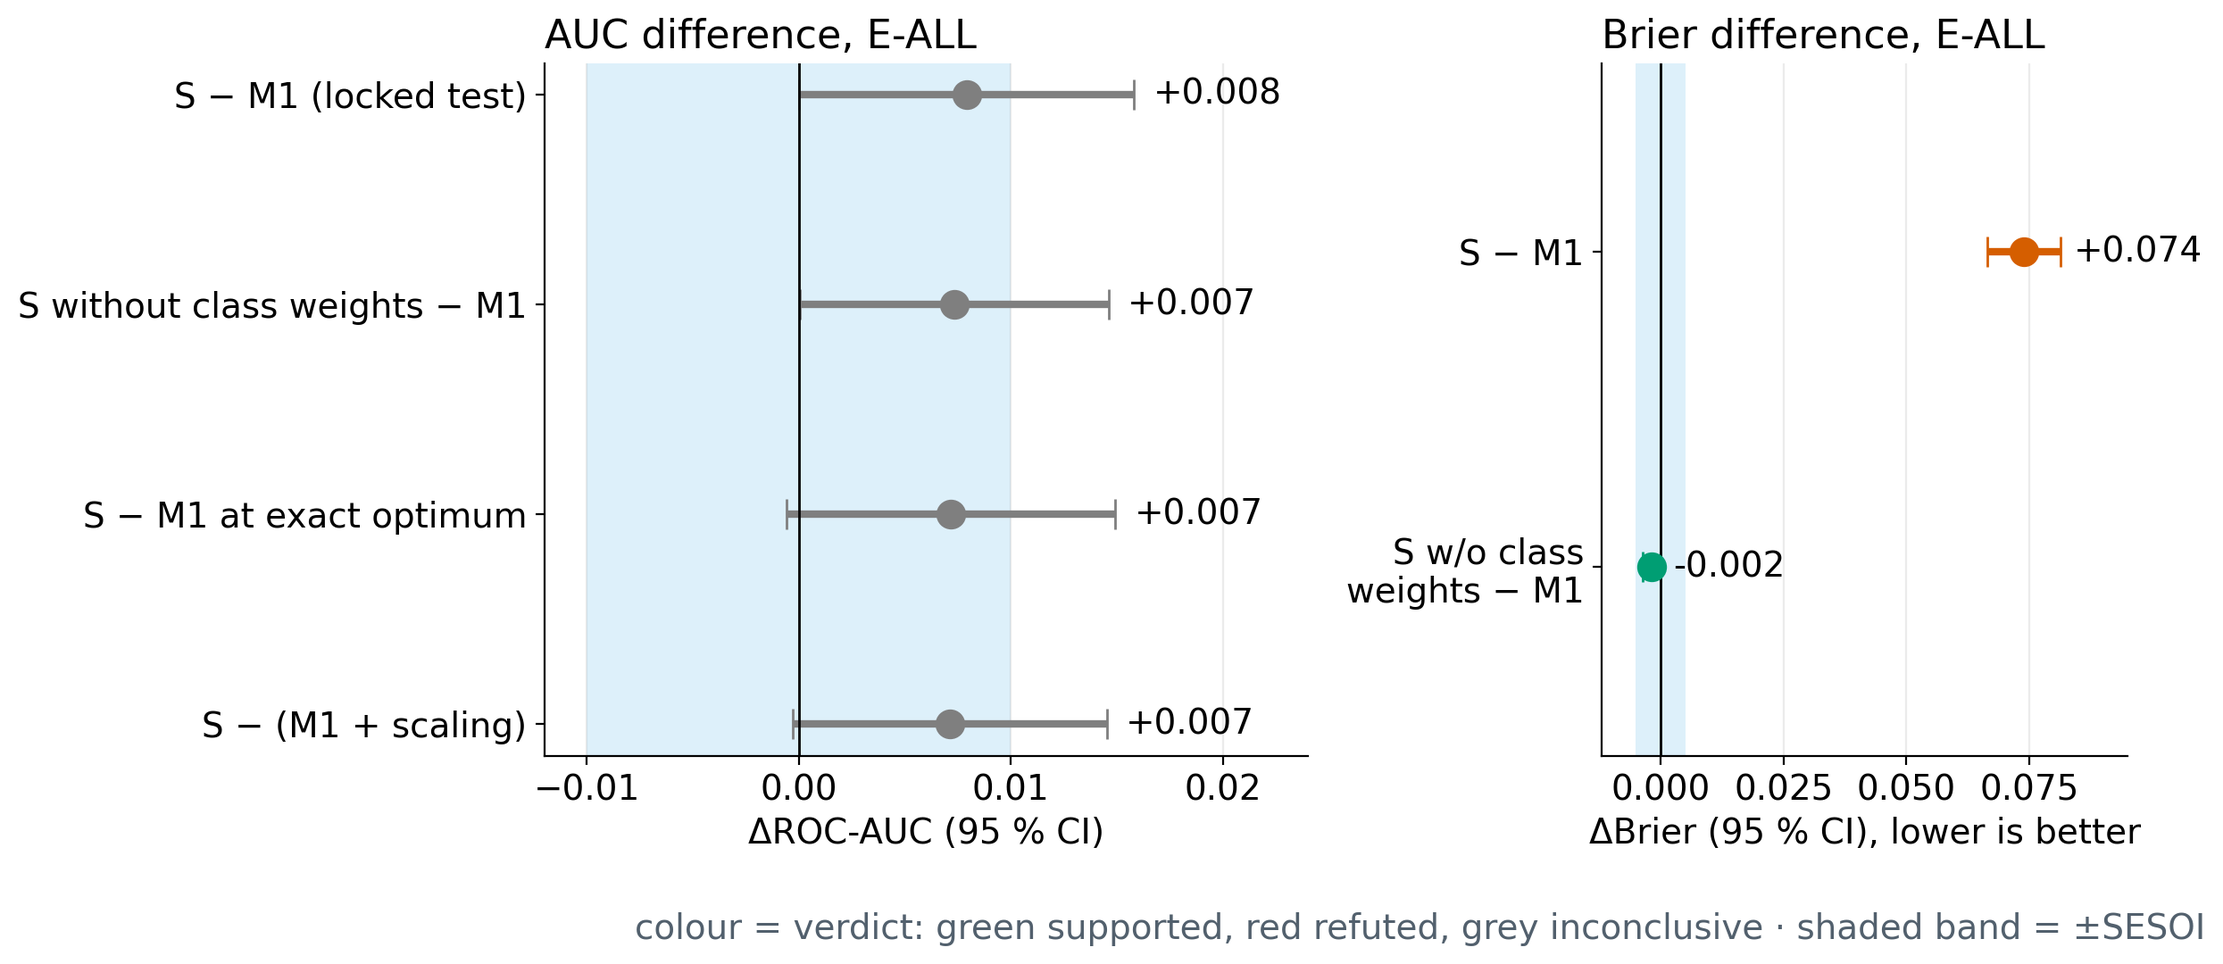
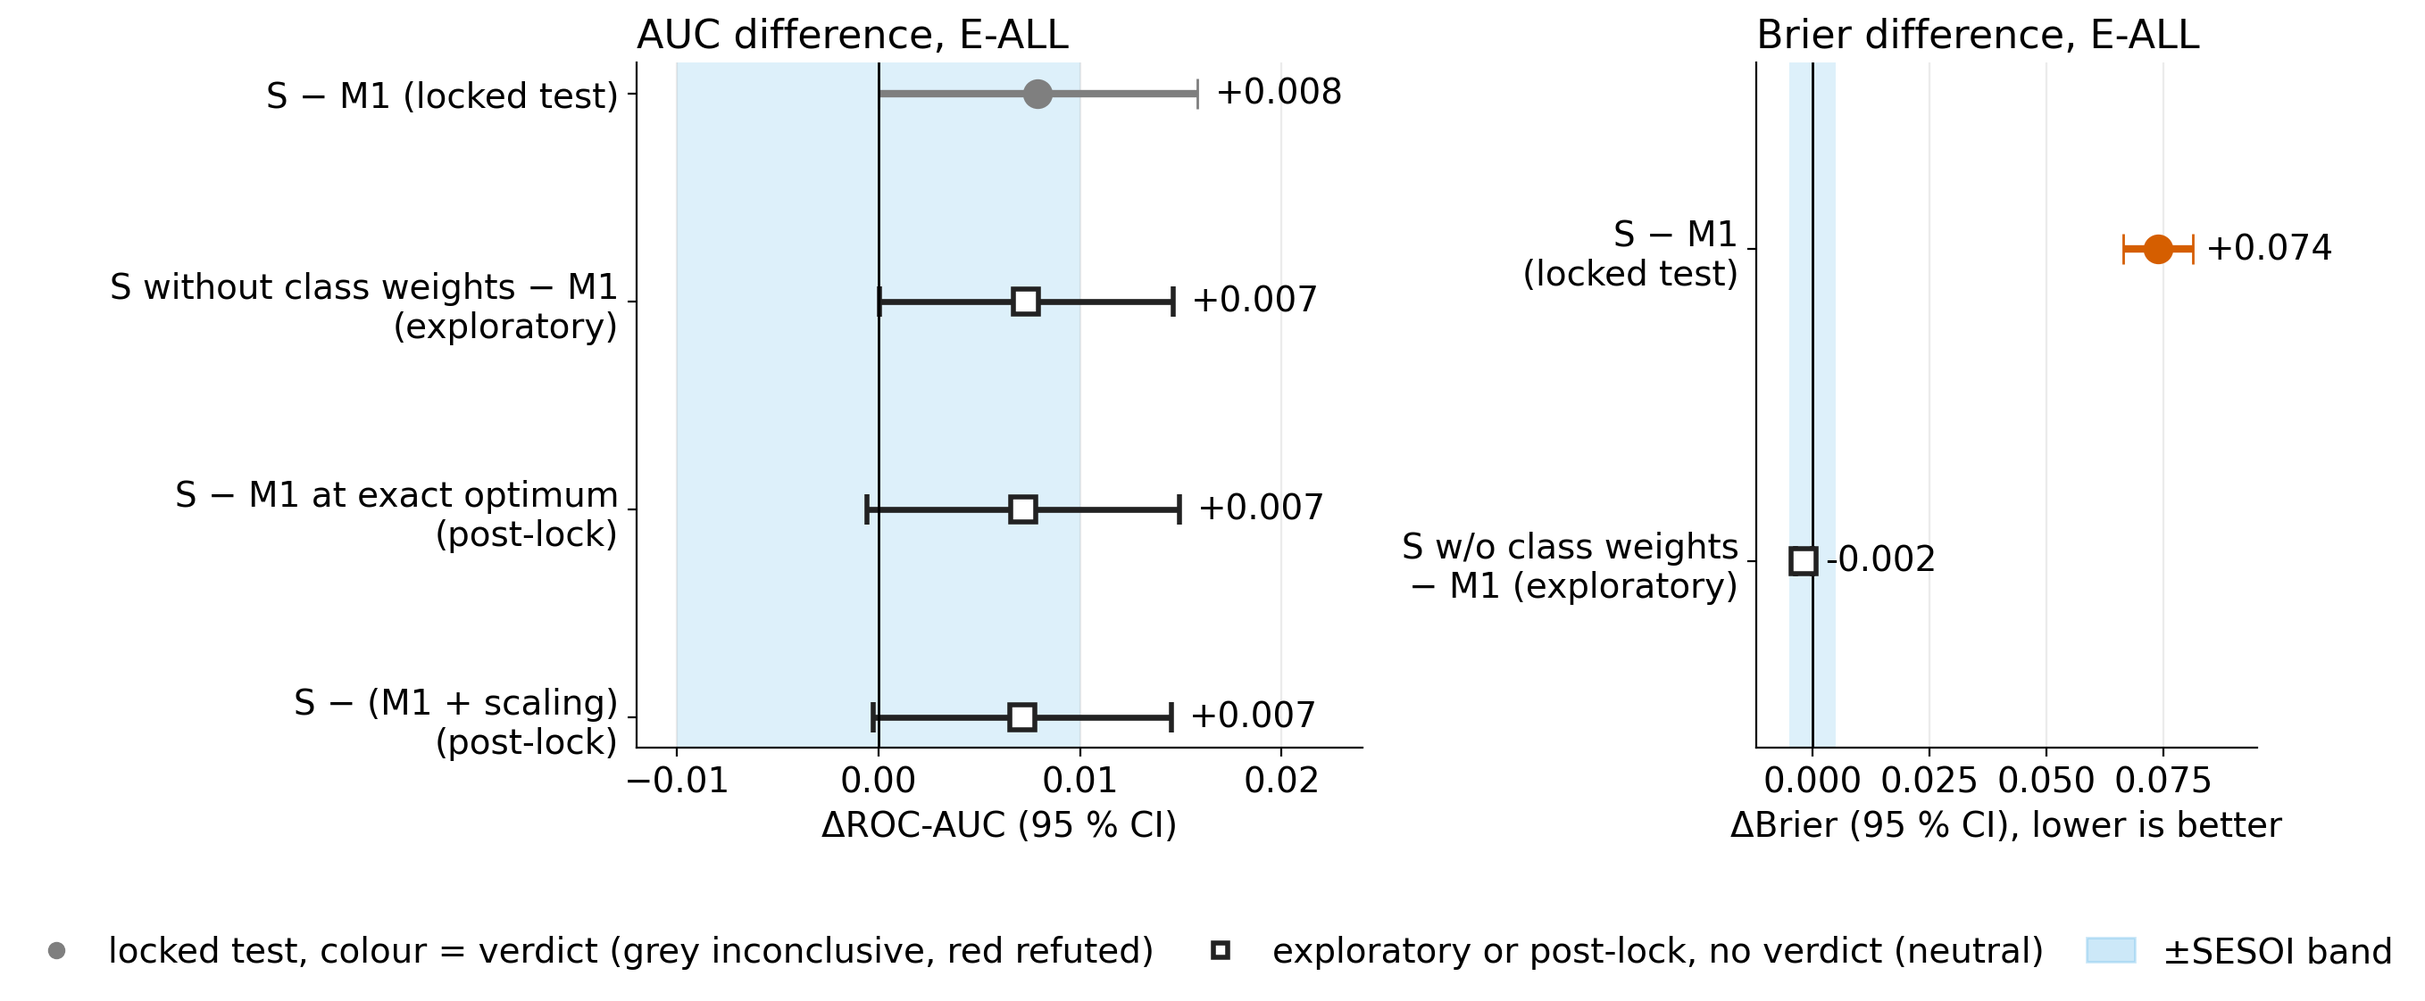
fix(S11b): neutral exploratory rows in the scoreboard figure, V3.1 inadmissible items, TEAM TO FILL placeholders, merge V7.4 and V7.5
V7.2 gets 40 s (V7.3 35 s, merged hold-out and robustness slide 20 s); total
stays 11:20. V8.3 footer now names the front-matter contribution table.

Changed region(s): [[0.0, 0.0, 0.9586, 0.8861], [0.0309, 0.9167, 1.0, 0.9778], [0.8659, 0.2139, 0.9896, 0.275]]

diff --git a/slides/make_slide_figures.py b/slides/make_slide_figures.py
@@ -39,6 +39,7 @@ sys.path.insert(0, str(ROOT))
 from src import config as C  # noqa: E402  (palette and SESOI only)
 
 OI = C.OKABE_ITO
+NEUTRAL = "#222222"
 RES = ROOT / "results"
 OUT = ROOT / "slides" / "figures"
 OUT.mkdir(parents=True, exist_ok=True)
@@ -292,25 +293,33 @@ def fig_scoreboard() -> None:
         r = pl[(pl["variant"] == variant) & (pl["a"] == a) & (pl["pop"] == "E-ALL") & (pl["metric"] == metric)].iloc[0]
         return r["est"], r["lo"], r["hi"], r["verdict_equivalence"]
     vcol = {"supported": OI["green"], "refuted": OI["vermillion"], "inconclusive": OI["grey"], "equivalent": OI["blue"]}
-    auc_rows = [("S − M1 (locked test)", row(stored, "S", "roc_auc")), ("S without class weights − M1", row(stored, "S-B6a", "roc_auc")),
-                ("S − M1 at exact optimum", row(exact, "S", "roc_auc")), ("S − (M1 + scaling)", row(scaled, "S", "roc_auc"))]
-    br_rows = [("S − M1", row(stored, "S", "brier")), ("S w/o class\nweights − M1", row(stored, "S-B6a", "brier"))]
-    fig, (ax, ax2) = plt.subplots(1, 2, figsize=(12.6, 5.4), gridspec_kw={"width_ratios": [1.45, 1]})
+    # locked rows carry the equivalence-rule verdict colour; exploratory and post-lock rows are neutral (no verdict)
+    auc_rows = [("S − M1 (locked test)", row(stored, "S", "roc_auc"), True), ("S without class weights − M1\n(exploratory)", row(stored, "S-B6a", "roc_auc"), False),
+                ("S − M1 at exact optimum\n(post-lock)", row(exact, "S", "roc_auc"), False), ("S − (M1 + scaling)\n(post-lock)", row(scaled, "S", "roc_auc"), False)]
+    br_rows = [("S − M1\n(locked test)", row(stored, "S", "brier"), True), ("S w/o class weights\n− M1 (exploratory)", row(stored, "S-B6a", "brier"), False)]
+    fig, (ax, ax2) = plt.subplots(1, 2, figsize=(12.8, 5.6), gridspec_kw={"width_ratios": [1.45, 1]})
     for ax_, rows_, band, lim in ((ax, auc_rows, C.SESOI["roc_auc"], (-0.012, 0.024)), (ax2, br_rows, C.SESOI["brier"], (-0.012, 0.095))):
-        for i, (lab, (est, lo, hi, v)) in enumerate(rows_):
-            ax_.errorbar(est, i, xerr=[[est - lo], [hi - est]], fmt="o", color=vcol[v], capsize=6, ms=11, lw=3)
+        for i, (lab, (est, lo, hi, v), locked) in enumerate(rows_):
+            if locked:
+                ax_.errorbar(est, i, xerr=[[est - lo], [hi - est]], fmt="o", color=vcol[v], capsize=6, ms=11, lw=3)
+            else:
+                ax_.errorbar(est, i, xerr=[[est - lo], [hi - est]], fmt="s", color=NEUTRAL, mfc="white", mew=2, capsize=6, ms=10, lw=2.4)
             ax_.text(hi + (lim[1] - lim[0]) * 0.025, i, f"{est:+.3f}", va="center", fontsize=14, color="black")
         ax_.axvspan(-band, band, color=OI["sky"], alpha=0.2, lw=0); ax_.axvline(0, color="black", lw=1)
         ax_.set_xlim(lim); ax_.invert_yaxis(); ax_.set_yticks(range(len(rows_)), [r[0] for r in rows_]); ax_.grid(axis="y", visible=False)
     ax.set_xticks([-0.01, 0, 0.01, 0.02]); ax2.set_xticks([0, 0.025, 0.05, 0.075]); ax2.set_ylim(1.6, -0.6)
     ax.set_title("AUC difference, E-ALL", loc="left"); ax.set_xlabel("ΔROC-AUC (95 % CI)")
     ax2.set_title("Brier difference, E-ALL", loc="left"); ax2.set_xlabel("ΔBrier (95 % CI), lower is better")
-    fig.text(0.99, 0.0, "colour = verdict: green supported, red refuted, grey inconclusive · shaded band = ±SESOI", ha="right", va="bottom", fontsize=14, color="#52606d")
-    fig.tight_layout(rect=[0, 0.06, 1, 1])
+    from matplotlib.lines import Line2D
+    hand = [Line2D([], [], marker="o", ls="", color=OI["grey"], label="locked test, colour = verdict (grey inconclusive, red refuted)"),
+            Line2D([], [], marker="s", ls="", color=NEUTRAL, mfc="white", mew=2, label="exploratory or post-lock, no verdict (neutral)"),
+            plt.Rectangle((0, 0), 1, 1, color=OI["sky"], alpha=0.3, label="±SESOI band")]
+    fig.legend(handles=hand, loc="lower center", ncol=3, fontsize=14, bbox_to_anchor=(0.5, -0.02), handlelength=1.4, columnspacing=1.2)
+    fig.tight_layout(rect=[0, 0.1, 1, 1])
     save(fig, "S10_scoreboard_forest",
          "Paired cross-validated difference of arm S against M1 on E-ALL (training part, 5x5 CV; shaded band = smallest effect of interest). Left: AUC for the locked "
          "comparison, S without class weights, and two post-lock variants of M1 (exact optimum; scaling only). Right: Brier score, where the deterioration comes from class weights. "
-         "Colours are the equivalence-rule verdicts. Source: results/S7/postlock_m1_sensitivity.csv.")
+         "Filled circles are locked tests coloured by their equivalence-rule verdict; hollow neutral squares are exploratory or post-lock rows and carry no verdict. Source: results/S7/postlock_m1_sensitivity.csv.")
 
 
 # --------------------------------------------------------------------------------------------- V1.4

diff --git a/slides/check_numbers.py b/slides/check_numbers.py
@@ -386,7 +386,7 @@ def main() -> int:
         n_checked += check_slide_numbers(where, {"title": s["title"], "takeaway": f["takeaway"],
                                                   "notes": f["notes"], "footer": f["footer"]},
                                          declared, rows, definitional)
-        if re.search(r"\[(N|TODO[^\]]*)\]", f["footer"] + f["takeaway"]):
+        if re.search(r"\[TEAM TO FILL[^\]]*\]", f["footer"] + f["takeaway"]):
             warn(where, "placeholder to be filled by the team")
 
     total = clock

diff --git a/slides/storyboard.md b/slides/storyboard.md
@@ -24,9 +24,9 @@ Models are used as measuring instruments. Each finding is something the instrume
 | V4 Redundancy and skewness | 3:30–4:30 | 60 | 3 | RB3 |
 | V5 Fallacies | 4:30–6:00 | 90 | 2 | RB3 |
 | V6 Label and measurement bias | 6:00–8:30 | 150 | 5 | RB4 |
-| V7 Experiments synthesis | 8:30–10:15 | 105 | 5 | RB4, HR1, HR2, HR3, HR4 |
+| V7 Experiments synthesis | 8:30–10:15 | 105 | 4 | RB4, HR1, HR2, HR3, HR4 |
 | V8 Conclusions, limitations, ethics, GenAI | 10:15–11:20 | 65 | 3 | RB2, HR5 |
-| Total | 0:00–11:20 | 680 | 27 | cap 11:40 leaves a 20 s reserve |
+| Total | 0:00–11:20 | 680 | 26 | cap 11:40 leaves a 20 s reserve |
 
 Speaker notes are sized at about 2.2 words per second, so a slide's notes fit its budget.
 
@@ -41,7 +41,7 @@ Field legend. `type` is figure, text, template or title. `takeaway` is the one-l
 - **takeaway**: Basic machine-learning models as measuring instruments on NHANES 2021–23 adult diabetes data.
 - **notes**: We treat basic machine-learning models as measuring instruments. The question is what they reveal about the data, not how well they score.
 - **numbers used**: none
-- **footer**: CA6003 Data Governance · Group [N] · NHANES 2021–23
+- **footer**: CA6003 Data Governance · [TEAM TO FILL: group no.] · NHANES 2021–23
 - **claims**: none
 
 ### V1.1 · Cohort Funnel
@@ -109,7 +109,7 @@ Field legend. `type` is figure, text, template or title. `takeaway` is the one-l
 - **time**: 45 s (2:15–3:00)
 - **figure**: `figures/S7_leak_gate.png`
 - **takeaway**: Removing leakage drops E-ALL AUC from 0.961 to 0.828.
-- **notes**: The naive model M0 reaches AUC 0.961 on all adults. Remove treatment and skip-logic items and M1 falls to 0.828, a drop of 0.131, interval minus 0.148 to minus 0.114. That excess was leakage, not insight. Among the undiagnosed the drop is smaller, minus 0.072.
+- **notes**: The naive model M0 reaches AUC 0.961 on all adults. Remove inadmissible items (treatment, diagnosis history, glucose testing) and M1 falls to 0.828, a drop of 0.131, interval minus 0.148 to minus 0.114. That excess was leakage, not insight. Among the undiagnosed the drop is smaller, minus 0.072.
 - **numbers used**: V3 · AUC M0 E-ALL = 0.961 | V3 · AUC M1 E-ALL = 0.828 | V3 · leak gate dAUC = -0.131 | V3 · leak gate CI low = -0.148 | V3 · leak gate CI high = -0.114 | V3 · leak gate dAUC E-SCREEN = -0.072 | V7 · training part adults = 4,584 | V7 · training part E-SCREEN positives = 127
 - **footer**: n = 4,584 (E-ALL), 127 positives (E-SCREEN) · paired CV, unweighted · §7.5
 - **claims**: C01
@@ -236,7 +236,7 @@ Field legend. `type` is figure, text, template or title. `takeaway` is the one-l
 
 ### V7.2 · Minimal versus Systematic Preparation
 - **type**: figure
-- **time**: 35 s (8:40–9:15)
+- **time**: 40 s (8:40–9:20)
 - **figure**: `slides/figures/S10_scoreboard_forest.png`
 - **takeaway**: S minus M1 ΔAUC +0.008 [+0.000, +0.016]; without class weights +0.007, Brier -0.002; inconclusive.
 - **notes**: Minimal M1 against systematic S, same model. The AUC gain is plus 0.008, interval 0.000 to 0.016, minimum detectable difference 0.011, so inconclusive. Class weights alone worsen Brier by 0.076. Without them S gains 0.007 AUC and improves Brier by 0.002. M1 hit its iteration limit in 25 folds, but converged or scaled variants keep the verdict.
@@ -246,7 +246,7 @@ Field legend. `type` is figure, text, template or title. `takeaway` is the one-l
 
 ### V7.3 · Recognition versus Screening
 - **type**: figure
-- **time**: 40 s (9:15–9:55)
+- **time**: 35 s (9:20–9:55)
 - **figure**: `slides/figures/S10_recognition_vs_screening.png`
 - **takeaway**: Whole-sample AUC overstates screening, 0.836 on E-ALL against 0.781 on E-SCREEN (gap +0.055).
 - **notes**: Same predictions, two populations. Arm S scores 0.836 on all adults but 0.781 on the undiagnosed, a gap of 0.055. Whole-sample AUC measures recognition. Removing care-trace items lowers E-ALL by 0.016 yet raises E-SCREEN by 0.019. Against ADA-lite, S leads by 0.055 in cross-validation but only 0.029 on the hold-out, interval minus 0.037 to 0.098, inconclusive.
@@ -254,25 +254,15 @@ Field legend. `type` is figure, text, template or title. `takeaway` is the one-l
 - **footer**: n = 4,584 / 127 positives · paired CV, unweighted · §7.9, §9.11, §10.6
 - **claims**: C07, C08, C09
 
-### V7.4 · Hold-Out Confirmation
+### V7.4 · Hold-Out and Robustness
 - **type**: figure
-- **time**: 10 s (9:55–10:05)
+- **time**: 20 s (9:55–10:15)
 - **figure**: `figures/S9_holdout_vs_cv.png`
-- **takeaway**: Hold-out shows cross-validated AUCs carry over, arm S 0.851 E-ALL, 0.791 E-SCREEN.
-- **notes**: One shot, evaluated once. Arm S scores 0.851 and 0.791, matching cross-validation. The leak gate holds, M0 0.964 against M1 0.848.
-- **numbers used**: V7 · hold-out AUC S E-ALL = 0.851 | V7 · hold-out AUC S E-SCREEN = 0.791 | V7 · hold-out AUC M0 E-ALL = 0.964 | V7 · hold-out AUC M1 E-ALL = 0.848 | V7 · hold-out n = 1,146
-- **footer**: one-shot hold-out n = 1,146 · unweighted · §9.11
-- **claims**: C25
-
-### V7.5 · Robustness Checks
-- **type**: figure
-- **time**: 10 s (10:05–10:15)
-- **figure**: `figures/S9_robustness_summary.png`
-- **takeaway**: The S minus M1 verdict is unchanged across all robustness analyses.
-- **notes**: Seeds, specifications, grouped cross-validation, weights and missing-data scenarios leave S minus M1 small and inconclusive. Permuted labels give AUC 0.501.
-- **numbers used**: V7 · permutation null mean (S) = 0.501 | V7 · training part adults = 4,584
-- **footer**: n = 4,584 (training part) · unweighted · §9.10
-- **claims**: C22
+- **takeaway**: Hold-out matches cross-validation, arm S 0.851 and 0.791; robustness checks leave S minus M1 unchanged.
+- **notes**: One shot, evaluated once. Arm S scores 0.851 and 0.791, close to cross-validation, but the screening hold-out has few positives. Seeds, specifications, grouped cross-validation and weights leave S minus M1 small and inconclusive. Permuted labels give AUC 0.501.
+- **numbers used**: V7 · hold-out AUC S E-ALL = 0.851 | V7 · hold-out AUC S E-SCREEN = 0.791 | V7 · permutation null mean (S) = 0.501 | V7 · hold-out n = 1,146 | V7 · training part adults = 4,584
+- **footer**: hold-out n = 1,146 · robustness on training part, n = 4,584 · unweighted · §9.10, §9.11
+- **claims**: C22, C25
 
 ### V8.1 · Conclusions
 - **type**: text
@@ -301,7 +291,7 @@ Field legend. `type` is figure, text, template or title. `takeaway` is the one-l
 - **takeaway**: Contribution table and GenAI statement (template, team fills in).
 - **notes**: Each member names their role and notebook sections on screen. For GenAI, Claude assisted planning, code drafting and audits under our direction. No LLM sits in the pipeline, and every number was recomputed and checked by us.
 - **numbers used**: none
-- **footer**: §0 contribution table · GenAI log in governance/genai_log.csv
+- **footer**: front-matter contribution table · GenAI log in governance/genai_log.csv
 - **claims**: none
 
 ## Cut priority (rehearsal loop L6)
@@ -327,7 +317,7 @@ Never cut: leakage gate (V3.1, V3.2), redundancy and skewness (V4.1 to V4.3), mi
 - V2.1 (governance and data quality) is new and takes 20 s of the V2 segment; the former V2.1 (cost of naive cleaning) is now V2.2 with 25 s.
 - The insurance and Asian fallacies share one figure (`S4_crude_vs_std`, which shows both); the mediator DAG has its own slide.
 - The skewness slide uses `S4_triglyceride_skew` (raw against log scale); the HbA1c outlier-fence figure `S3_iqr_fence_harm` is the optional backup visual.
-- V7 adds the hold-out confirmation (V7.4) and a robustness slide (V7.5) from S10; the ADA-lite sentence sits in V7.3 together with the hold-out contrast (+0.029, inconclusive).
+- V7.4 combines the one-shot hold-out and the robustness checks in one slide (the robustness summary figure `S9_robustness_summary` is the optional backup visual); the ADA-lite sentence sits in V7.3 together with the hold-out contrast (+0.029, inconclusive). The freed seconds went to V7.2 (40 s).
 - Slides V1.4, V2.1, V4.1, V4.2, V5.2, V6.5, V7.1, V7.2 and V7.3 use simplified slide versions of the notebook figures (`slides/figures/`); the V4.1 slide shows variance inflation factors and correlation clusters instead of the full clustered heatmap, and the V4.2 slide shows only the left panel of the coefficient figure (the 22-coefficient panel is not stored in `results/`).
 - Text slides (V0, V8.1, V8.2, V8.3) carry no figure.
 

diff --git a/slides/deck.md b/slides/deck.md
@@ -22,7 +22,7 @@ style: |
 ---
 
 <!-- _class: V0 title -->
-<!-- _footer: "CA6003 Data Governance · Group [N] · NHANES 2021–23" -->
+<!-- _footer: "CA6003 Data Governance · [TEAM TO FILL: group no.] · NHANES 2021–23" -->
 
 # Who Gets Labelled Diabetic? Basic Models as Instruments on NHANES 2021–2023
 
@@ -134,7 +134,7 @@ Recoding questionnaire sentinel codes to missing looks like routine cleaning. It
 Removing leakage drops E-ALL AUC from 0.961 to 0.828.
 
 <!--
-The naive model M0 reaches AUC 0.961 on all adults. Remove treatment and skip-logic items and M1 falls to 0.828, a drop of 0.131, interval minus 0.148 to minus 0.114. That excess was leakage, not insight. Among the undiagnosed the drop is smaller, minus 0.072.
+The naive model M0 reaches AUC 0.961 on all adults. Remove inadmissible items (treatment, diagnosis history, glucose testing) and M1 falls to 0.828, a drop of 0.131, interval minus 0.148 to minus 0.114. That excess was leakage, not insight. Among the undiagnosed the drop is smaller, minus 0.072.
 -->
 
 ---
@@ -350,31 +350,16 @@ Same predictions, two populations. Arm S scores 0.836 on all adults but 0.781 on
 ---
 
 <!-- _class: V7_4 -->
-<!-- _footer: "one-shot hold-out n = 1,146 · unweighted · §9.11" -->
+<!-- _footer: "hold-out n = 1,146 · robustness on training part, n = 4,584 · unweighted · §9.10, §9.11" -->
 
-# Hold-Out Confirmation
+# Hold-Out and Robustness
 
 ![fig h:455](../figures/S9_holdout_vs_cv.png)
 
-Hold-out shows cross-validated AUCs carry over, arm S 0.851 E-ALL, 0.791 E-SCREEN.
+Hold-out matches cross-validation, arm S 0.851 and 0.791; robustness checks leave S minus M1 unchanged.
 
 <!--
-One shot, evaluated once. Arm S scores 0.851 and 0.791, matching cross-validation. The leak gate holds, M0 0.964 against M1 0.848.
--->
-
----
-
-<!-- _class: V7_5 -->
-<!-- _footer: "n = 4,584 (training part) · unweighted · §9.10" -->
-
-# Robustness Checks
-
-![fig h:455](../figures/S9_robustness_summary.png)
-
-The S minus M1 verdict is unchanged across all robustness analyses.
-
-<!--
-Seeds, specifications, grouped cross-validation, weights and missing-data scenarios leave S minus M1 small and inconclusive. Permuted labels give AUC 0.501.
+One shot, evaluated once. Arm S scores 0.851 and 0.791, close to cross-validation, but the screening hold-out has few positives. Seeds, specifications, grouped cross-validation and weights leave S minus M1 small and inconclusive. Permuted labels give AUC 0.501.
 -->
 
 ---
@@ -412,18 +397,18 @@ Limits are observational US data, not Singapore, and only 152 screening positive
 ---
 
 <!-- _class: V8_3 template -->
-<!-- _footer: "§0 contribution table · GenAI log in governance/genai_log.csv" -->
+<!-- _footer: "front-matter contribution table · GenAI log in governance/genai_log.csv" -->
 
 # Contributions and GenAI
 
 | Member | Role | Notebook sections | Video segment |
 |---|---|---|---|
-| [Name] | [Role] | [§ list] | [segment] |
-| [Name] | [Role] | [§ list] | [segment] |
-| [Name] | [Role] | [§ list] | [segment] |
-| [Name] | [Role] | [§ list] | [segment] |
+| [TEAM TO FILL: name] | [TEAM TO FILL: role] | [TEAM TO FILL: § list] | [TEAM TO FILL: mm:ss–mm:ss] |
+| [TEAM TO FILL: name] | [TEAM TO FILL: role] | [TEAM TO FILL: § list] | [TEAM TO FILL: mm:ss–mm:ss] |
+| [TEAM TO FILL: name] | [TEAM TO FILL: role] | [TEAM TO FILL: § list] | [TEAM TO FILL: mm:ss–mm:ss] |
+| [TEAM TO FILL: name] | [TEAM TO FILL: role] | [TEAM TO FILL: § list] | [TEAM TO FILL: mm:ss–mm:ss] |
 
-GenAI. Claude (Anthropic) supported planning, code drafting and audits; no LLM in the pipeline. [TODO team confirms wording]
+GenAI. Claude (Anthropic) supported planning, code drafting and audits; no LLM in the pipeline. [TEAM TO FILL: confirm wording against the declaration in the front matter]
 
 <!--
 Each member names their role and notebook sections on screen. For GenAI, Claude assisted planning, code drafting and audits under our direction. No LLM sits in the pipeline, and every number was recomputed and checked by us.

diff --git a/slides/README.md b/slides/README.md
@@ -25,7 +25,7 @@ npx @marp-team/marp-cli slides/deck.md --pptx --allow-local-files -o slides/deck
 npx @marp-team/marp-cli slides/deck.md --images png --allow-local-files -o slides/png/s.png
 ```
 
-`--allow-local-files` is required for the figures. Do not commit rendered files. The deck was rendered with Marp CLI to PNG and HTML to check layout (27 slides, 23 figures).
+`--allow-local-files` is required for the figures. Do not commit rendered files. The deck was rendered with Marp CLI to PNG and HTML to check layout (26 slides, 22 figures).
 
 **Number check** (run before every rehearsal and after any change to results):
 
@@ -47,9 +47,9 @@ Target 11:20, cap 11:40, hard limit 12:00 for the upload.
 | V4 Redundancy and skewness | 3:30–4:30 | 60 | V4.1 to V4.3 |
 | V5 Fallacies | 4:30–6:00 | 90 | V5.1, V5.2 |
 | V6 Label and measurement bias | 6:00–8:30 | 150 | V6.1 to V6.5 |
-| V7 Experiments synthesis | 8:30–10:15 | 105 | V7.1 to V7.5 |
+| V7 Experiments synthesis | 8:30–10:15 | 105 | V7.1 to V7.4 |
 | V8 Conclusions, limitations, GenAI | 10:15–11:20 | 65 | V8.1 to V8.3 |
-| Total | 0:00–11:20 | 680 | 27 |
+| Total | 0:00–11:20 | 680 | 26 |
 
 Per-slide budgets, with the clock at each slide start, are in `storyboard.md`. Speaker notes are written at about 2.2 words per second, so reading them at a normal pace fits the budget.
 
@@ -76,7 +76,7 @@ Never cut: leakage gate (V3.1, V3.2), redundancy and skewness (V4.1 to V4.3), mi
 
 ## To fill in before recording
 
-- Group number: `[N]` in the title-slide footer (`deck.md`, `storyboard.md` V0) and in the YouTube title.
+- Group number: `[TEAM TO FILL: group no.]` in the title-slide footer (`deck.md`, `storyboard.md` V0) and in the YouTube title.
 - Contribution table and GenAI sentence on V8.3 (template). The GenAI sentence must match the declaration in notebook section 0 and `governance/genai_log.csv`.
 - Segment-to-member assignment, decided by the team.
 
